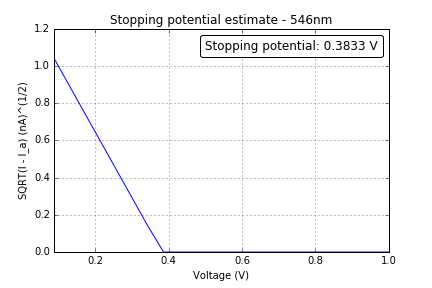
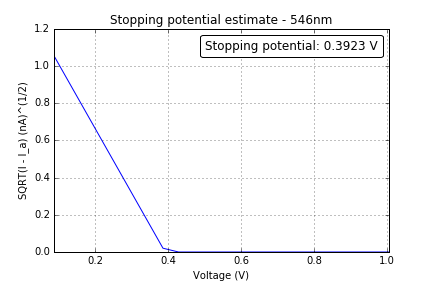
Einstein photoelectric model

diff --git a/lab1/stopping_pontential_estimation.py b/lab1/stopping_pontential_estimation.py
@@ -3,15 +3,15 @@ import numpy as np
 import pandas as pd
 
 # Read data points
-values = pd.read_csv('data/filter580.csv', header=None,
+values = pd.read_csv('data/filter546.csv', header=None,
                      names=['Voltage', 'Current'],
-                     nrows=24)
+                     nrows=59)
 
 
-wavelength = 580E-9 # Nanometers
+wavelength = 546E-9 # Nanometers
 frequency = (1.0/wavelength)/10**4 # THz
-I_a = 0.0322  # Current plateaus at constant negative current
-V_s = 0.831 # Aparent stopping potential
+I_a = 0.1031  # Current plateaus at constant negative current
+V_s = 0.505  # Aparent stopping potential
 
 fit_points = values.loc[values['Current'] >= 0]
 coefficients, _, _, _, _ = np.polyfit(fit_points['Voltage'], fit_points['Current'],
@@ -19,7 +19,9 @@ coefficients, _, _, _, _ = np.polyfit(fit_points['Voltage'], fit_points['Current
 
 # Quadratic fit of observed data points
 a = coefficients[0]
+a
 quadratic_fit = a*(values['Voltage'] - V_s)**2 - I_a
+
 # Plot data points and quadratic fit
 fig, ax = plt.subplots()
 
@@ -30,12 +32,12 @@ fitted = ax.plot(values['Voltage'], quadratic_fit, linewidth=2,
                  linestyle="--", label="Quadratic fit")
 
 
-ax.set(title="Quadratic fit - 580nm", xlabel="Voltage (V)", ylabel="Current (nA)",
+ax.set(title="Quadratic fit - 546nm", xlabel="Voltage (V)", ylabel="Current (nA)",
        xlim=[values['Voltage'].min(), V_s + 1],
        ylim=[values['Current'].min(), values['Current'].max()])
 ax.legend(loc='upper right')
 plt.grid(True)
-fig.savefig('plots/filter580quad.png')
+fig.savefig('plots/filter546quad.png')
 fig.show()
 
 
@@ -45,6 +47,8 @@ linear_estimate = np.sqrt(quadratic_fit - I_a)
 linear_estimate
 if np.isnan(linear_estimate).any():
     stop_estimate = np.where(np.isnan(linear_estimate))[0][0]
+else:
+    stop_estimate = linear_estimate.size
 
 if stop_estimate != 0:
     linear_estimate = linear_estimate[0:stop_estimate]
@@ -59,7 +63,6 @@ intercept = coefficients[1]
 # Einstein photoelectric model
 voltages = np.linspace(values['Voltage'].min(), values['Voltage'].max(), num=240)
 linear_fit = slope * voltages + intercept
-linear_fit
 linear_fit = linear_fit.clip(0)
 stopping_pontential = np.roots(coefficients)[0]
 
@@ -70,7 +73,7 @@ voltages = np.linspace(values['Voltage'].min(), values['Voltage'].max(), num=lin
 ax2.plot(voltages, linear_fit,
                 label="Stopping potential: {:5.4} V".format(stopping_pontential))
 
-ax2.set(title="Stopping potential estimate - 580nm",
+ax2.set(title="Stopping potential estimate - 546nm",
         xlabel="Voltage (V)",
         ylabel="SQRT(I - I_a) (nA)^(1/2)",
         xlim=[values['Voltage'].min(), V_s + 0.5])
@@ -82,5 +85,5 @@ for item in leg.legendHandles:
     item.set_visible(False)
 
 plt.grid(True)
-fig2.savefig('plots/filter580estimate.png')
+fig2.savefig('plots/filter546estimate.png')
 fig2.show()

diff --git a/lab1/einstein_model.py b/lab1/einstein_model.py
@@ -12,7 +12,8 @@ POTASSIUM_WORK_FUNCTION = 3.67E-19 # [J]
 frequencies = np.linspace(100, 300, num=600)
 
 # Filter measurements
-stopping_pontentials = np.array([1.227, 0.8824, 0.5584])
+yerrors = [0.96, 0.81, 0.29]
+stopping_pontentials = np.array([1.23, 0.88, 0.56])
 filter_frequencies = np.array([274E12, 229E12, 172E12])
 filter_data_points = [filter_frequencies, stopping_pontentials]
 coefficients, _, _, _, _ = np.polyfit(filter_data_points[0], filter_data_points[1],
@@ -31,12 +32,15 @@ plancks_const_prediction = coefficients[0] * CHARGE_E
 # Plot data points and quadratic fit
 fig, ax = plt.subplots()
 
-ax.plot(frequencies, observed, label="Observed")
+ax.plot(frequencies, observed, label="Observed fit")
+
+ax.errorbar(filter_frequencies*1E-12, stopping_pontentials,
+            yerr=[yerrors, yerrors], fmt='o', label="Stopping potentials")
 
 ax.plot(frequencies, photoelectric_model, label="Actual")
 
 ax.set(title="Stopping Voltage vs. Frequency", xlabel="Frequency (THz)", ylabel="Voltage (V)")
-ax.legend(loc='upper right')
+ax.legend(loc='upper left')
 plt.grid(True)
 fig.savefig('plots/observation_vs_model.png')
 fig.show()

diff --git a/error_analysis/disks.py b/error_analysis/disks.py
@@ -1,10 +1,11 @@
-import pandas as pd
-import numpy as np
-import matplotlib.pyplot as plt
 import math
 
+import matplotlib.pyplot as plt
+import numpy as np
+import pandas as pd
+
 # Read resistor values
-values = pd.read_csv('disk_data.csv', header=None,
+values = pd.read_csv('data/disk_data.csv', header=None,
                      names=['Diameter', 'Circumference',
                             'Diameter Uncertainty',
                             'Circumference Uncertainty',
